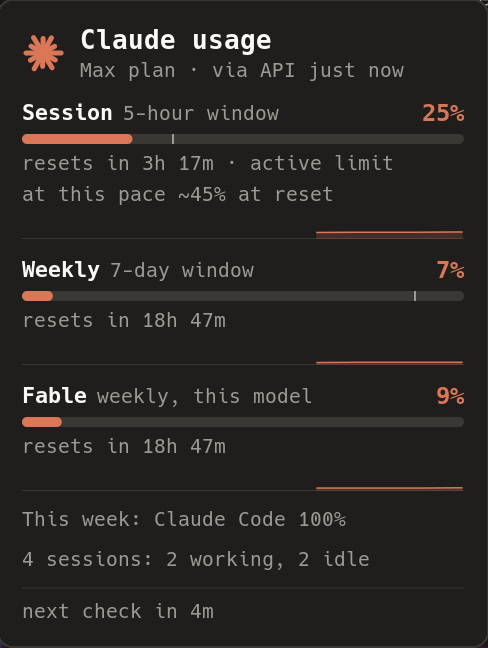
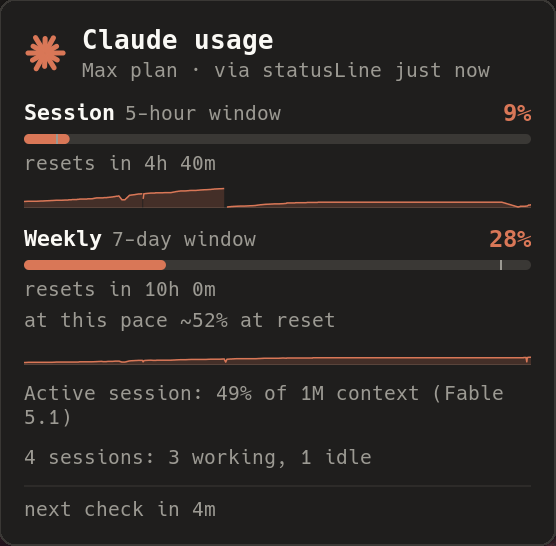
Popup context line, wider popup, real-history screenshots (v0.5.2)

diff --git a/CHANGELOG.md b/CHANGELOG.md
@@ -3,6 +3,17 @@
 All notable changes to this project are documented here.
 The format follows [Keep a Changelog](https://keepachangelog.com/en/1.1.0/).
 
+## [0.5.2] - 2026-09-23
+
+### Fixed
+- A window missing from the statusLine `rate_limits` (Claude Code drops it after its reset) now
+  counts as 0 % "no usage yet" instead of showing `5h --`.
+- The graphical popup shows the active session's context line (it was only in the text variant).
+
+### Changed
+- Popup default width 340 px, shorter source names ("via statusLine just now").
+- Screenshots with nine hours of real history.
+
 ## [0.5.1] - 2026-09-22
 
 ### Fixed
@@ -71,6 +82,7 @@ The format follows [Keep a Changelog](https://keepachangelog.com/en/1.1.0/).
 - Desktop notifications when a window crosses the warn/crit thresholds.
 - `contrib/statusline-cache.sh` helper for the Claude Code statusLine.
 
+[0.5.2]: https://github.com/derblub/awesome-claude-usage/compare/v0.5.1...v0.5.2
 [0.5.1]: https://github.com/derblub/awesome-claude-usage/compare/v0.5.0...v0.5.1
 [0.5.0]: https://github.com/derblub/awesome-claude-usage/compare/v0.4.0...v0.5.0
 [0.4.0]: https://github.com/derblub/awesome-claude-usage/compare/v0.3.0...v0.4.0

diff --git a/README.md b/README.md
@@ -168,7 +168,7 @@ claude_usage.new({
 
     -- Popup
     popup         = true,     -- built-in hover popup; false to build your own
-    popup_width   = 300,      -- dpi
+    popup_width   = 340,      -- dpi
     popup_colors  = { bg = "#1F1E1D", fg = "#FAF9F5", muted = "#9C9A93", border = "#3A3835",
                       track = "#3A3835", accent = "#D97757", warn = "#E39B3A", crit = "#C8442E" },
     popup_border_width = 1, popup_radius = 10,
